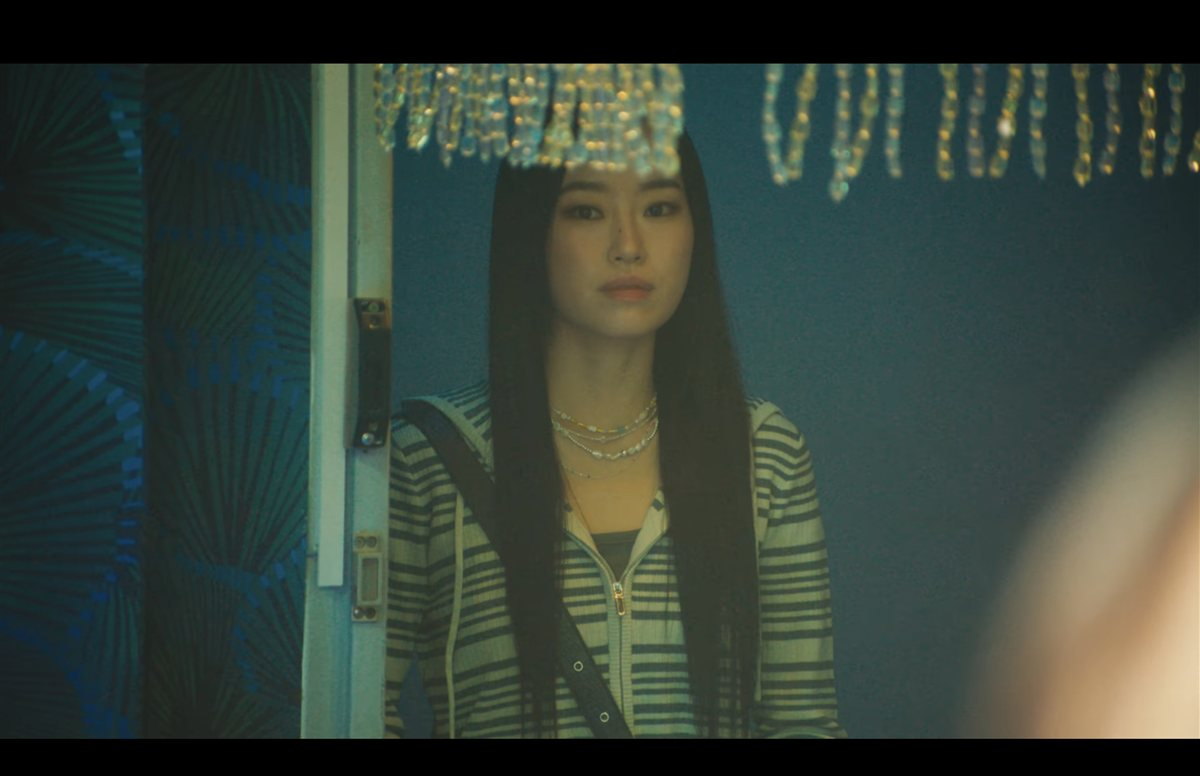
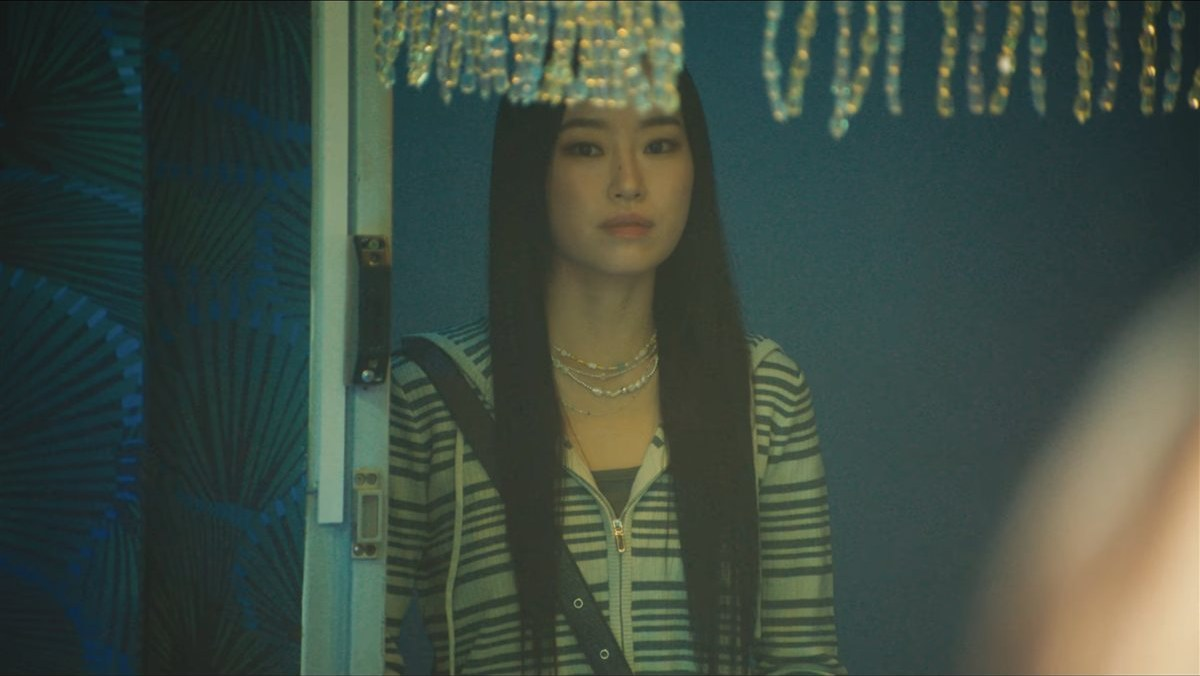
Add link preview cards (per-character OG pages), native phone share with image, crop letterbox bars

diff --git a/index.html b/index.html
@@ -4,6 +4,16 @@
 <meta charset="utf-8">
 <meta name="viewport" content="width=device-width, initial-scale=1">
 <title>슬라이드 스트럼 뮤트 캐릭터 타입테스트</title>
+<meta name="description" content="당신과 가장 닮은 등장인물은 누구일까요? 슬라이드 스트럼 뮤트 캐릭터 타입테스트">
+<meta property="og:type" content="website">
+<meta property="og:title" content="슬라이드 스트럼 뮤트 캐릭터 타입테스트">
+<meta property="og:description" content="당신과 가장 닮은 등장인물은 누구일까요?">
+<meta property="og:image" content="https://ssm-personality.pages.dev/img/share/default.jpg">
+<meta property="og:url" content="https://ssm-personality.pages.dev/">
+<meta name="twitter:card" content="summary_large_image">
+<meta name="twitter:title" content="슬라이드 스트럼 뮤트 캐릭터 타입테스트">
+<meta name="twitter:description" content="당신과 가장 닮은 등장인물은 누구일까요?">
+<meta name="twitter:image" content="https://ssm-personality.pages.dev/img/share/default.jpg">
 <link rel="preconnect" href="https://fonts.googleapis.com">
 <link rel="stylesheet" href="https://fonts.googleapis.com/css2?family=Archivo+Black&family=Share+Tech+Mono&display=swap">
 <style>
@@ -563,6 +573,7 @@ function renderResult(forced){
   $("rwarn").hidden = !c.warn;
   if (c.warn) $("rwarntext").innerHTML = c.warn;
   show("s-result");
+  renderShareCard().catch(() => {});
 }
 
 /* img/logo.png 가 있으면 텍스트 제목 대신 로고 표시 */
@@ -571,10 +582,10 @@ function renderResult(forced){
 
 $("start").addEventListener("click", startQuiz);
 /* ===== 공유 ===== 문구·해시태그는 여기서 수정 */
-const PAGE_URL = location.origin + location.pathname;
+const PAGE_URL = (location.origin + location.pathname).replace(/index\.html$/, "").replace(/\/?$/, "/");
 const SHARE_TAGS = ["슬라이드스트럼뮤트", "SLIDESTRUMMUTE", "캐릭터타입테스트"];
 function curChar(){ return CHARACTERS[document.body.dataset.char]; }
-function resultUrl(){ return PAGE_URL + "?r=" + (document.body.dataset.char || ""); }   // 그 캐릭터 결과로 바로 열리는 링크
+function resultUrl(){ return PAGE_URL + "r/" + (document.body.dataset.char || "") + "/"; }   // 그 캐릭터 결과로 바로 열리는 링크 (링크 미리보기 카드용 페이지)
 function shareText(){ const c = curChar(); return "나는 〈슬라이드 스트럼 뮤트〉 속 " + (c ? c.name : "누구") + "! 당신은 누구와 닮았나요?"; }
 let toastTimer;
 function toast(msg){ const t = $("toast"); t.textContent = msg; t.hidden = false; clearTimeout(toastTimer); toastTimer = setTimeout(() => t.hidden = true, 2600); }
@@ -604,11 +615,17 @@ $("sh-copy").addEventListener("click", async () => {
   try { await navigator.clipboard.writeText(shareText() + " " + resultUrl()); toast("결과 링크가 복사됐어요"); }
   catch (e){ toast("복사에 실패했어요. 주소창의 링크를 복사해 주세요"); }
 });
-$("sh-x").addEventListener("click", () => {
+$("sh-x").addEventListener("click", () => withBusy($("sh-x"), "이미지 준비 중…", async () => {
+  const blob = await renderShareBlob();
+  const file = blob && new File([blob], "slide-strum-mute-result.jpg", { type: "image/jpeg" });
+  if (file && navigator.canShare && navigator.canShare({ files: [file] })){
+    await navigator.share({ files: [file], text: shareText() + " " + resultUrl() + " " + SHARE_TAGS.map(t => "#" + t).join(" ") });
+    return;   // 폰: 공유창에서 X를 고르면 이미지·문구·링크가 한 번에 들어감
+  }
   const u = "https://twitter.com/intent/tweet?text=" + encodeURIComponent(shareText()) + "&url=" + encodeURIComponent(resultUrl()) + "&hashtags=" + encodeURIComponent(SHARE_TAGS.join(","));
   window.open(u, "_blank", "noopener");
-  withBusy($("sh-x"), "이미지 준비 중…", () => showPreview("트윗 작성창이 열렸어요. '사진 저장' 버튼(또는 이미지 길게 누르기)으로 저장해서 트윗에 첨부하면 결과 카드까지 올라갑니다."));
-});
+  await showPreview("트윗 작성창이 열렸어요. '사진 저장' 버튼(또는 이미지 길게 누르기)으로 저장해서 트윗에 첨부하면 결과 카드까지 올라갑니다.");
+}));
 $("sh-insta").addEventListener("click", () => withBusy($("sh-insta"), "이미지 준비 중…", async () => {
   const blob = await renderShareBlob();
   const file = blob && new File([blob], "slide-strum-mute-result.jpg", { type: "image/jpeg" });

diff --git a/r/geumjin/index.html b/r/geumjin/index.html
@@ -1,0 +1,17 @@
+<!doctype html>
+<html lang="ko"><head><meta charset="utf-8">
+<meta name="viewport" content="width=device-width, initial-scale=1">
+<title>나는 〈슬라이드 스트럼 뮤트〉 속 금진!</title>
+<meta name="description" content="당신은 누구와 닮았나요? 슬라이드 스트럼 뮤트 캐릭터 타입테스트">
+<meta property="og:type" content="website">
+<meta property="og:title" content="나는 〈슬라이드 스트럼 뮤트〉 속 금진!">
+<meta property="og:description" content="당신은 누구와 닮았나요? 슬라이드 스트럼 뮤트 캐릭터 타입테스트">
+<meta property="og:image" content="https://ssm-personality.pages.dev/img/share/geumjin.jpg">
+<meta property="og:url" content="https://ssm-personality.pages.dev/r/geumjin/">
+<meta name="twitter:card" content="summary_large_image">
+<meta name="twitter:title" content="나는 〈슬라이드 스트럼 뮤트〉 속 금진!">
+<meta name="twitter:description" content="당신은 누구와 닮았나요? 슬라이드 스트럼 뮤트 캐릭터 타입테스트">
+<meta name="twitter:image" content="https://ssm-personality.pages.dev/img/share/geumjin.jpg">
+<meta http-equiv="refresh" content="0;url=../../?r=geumjin">
+<script>location.replace("../../?r=geumjin")</script>
+</head><body></body></html>

diff --git a/r/woojin/index.html b/r/woojin/index.html
@@ -1,0 +1,17 @@
+<!doctype html>
+<html lang="ko"><head><meta charset="utf-8">
+<meta name="viewport" content="width=device-width, initial-scale=1">
+<title>나는 〈슬라이드 스트럼 뮤트〉 속 우진!</title>
+<meta name="description" content="당신은 누구와 닮았나요? 슬라이드 스트럼 뮤트 캐릭터 타입테스트">
+<meta property="og:type" content="website">
+<meta property="og:title" content="나는 〈슬라이드 스트럼 뮤트〉 속 우진!">
+<meta property="og:description" content="당신은 누구와 닮았나요? 슬라이드 스트럼 뮤트 캐릭터 타입테스트">
+<meta property="og:image" content="https://ssm-personality.pages.dev/img/share/woojin.jpg">
+<meta property="og:url" content="https://ssm-personality.pages.dev/r/woojin/">
+<meta name="twitter:card" content="summary_large_image">
+<meta name="twitter:title" content="나는 〈슬라이드 스트럼 뮤트〉 속 우진!">
+<meta name="twitter:description" content="당신은 누구와 닮았나요? 슬라이드 스트럼 뮤트 캐릭터 타입테스트">
+<meta name="twitter:image" content="https://ssm-personality.pages.dev/img/share/woojin.jpg">
+<meta http-equiv="refresh" content="0;url=../../?r=woojin">
+<script>location.replace("../../?r=woojin")</script>
+</head><body></body></html>

diff --git a/r/namgi/index.html b/r/namgi/index.html
@@ -1,0 +1,17 @@
+<!doctype html>
+<html lang="ko"><head><meta charset="utf-8">
+<meta name="viewport" content="width=device-width, initial-scale=1">
+<title>나는 〈슬라이드 스트럼 뮤트〉 속 남기!</title>
+<meta name="description" content="당신은 누구와 닮았나요? 슬라이드 스트럼 뮤트 캐릭터 타입테스트">
+<meta property="og:type" content="website">
+<meta property="og:title" content="나는 〈슬라이드 스트럼 뮤트〉 속 남기!">
+<meta property="og:description" content="당신은 누구와 닮았나요? 슬라이드 스트럼 뮤트 캐릭터 타입테스트">
+<meta property="og:image" content="https://ssm-personality.pages.dev/img/share/namgi.jpg">
+<meta property="og:url" content="https://ssm-personality.pages.dev/r/namgi/">
+<meta name="twitter:card" content="summary_large_image">
+<meta name="twitter:title" content="나는 〈슬라이드 스트럼 뮤트〉 속 남기!">
+<meta name="twitter:description" content="당신은 누구와 닮았나요? 슬라이드 스트럼 뮤트 캐릭터 타입테스트">
+<meta name="twitter:image" content="https://ssm-personality.pages.dev/img/share/namgi.jpg">
+<meta http-equiv="refresh" content="0;url=../../?r=namgi">
+<script>location.replace("../../?r=namgi")</script>
+</head><body></body></html>

diff --git a/r/sieun/index.html b/r/sieun/index.html
@@ -1,0 +1,17 @@
+<!doctype html>
+<html lang="ko"><head><meta charset="utf-8">
+<meta name="viewport" content="width=device-width, initial-scale=1">
+<title>나는 〈슬라이드 스트럼 뮤트〉 속 시은!</title>
+<meta name="description" content="당신은 누구와 닮았나요? 슬라이드 스트럼 뮤트 캐릭터 타입테스트">
+<meta property="og:type" content="website">
+<meta property="og:title" content="나는 〈슬라이드 스트럼 뮤트〉 속 시은!">
+<meta property="og:description" content="당신은 누구와 닮았나요? 슬라이드 스트럼 뮤트 캐릭터 타입테스트">
+<meta property="og:image" content="https://ssm-personality.pages.dev/img/share/sieun.jpg">
+<meta property="og:url" content="https://ssm-personality.pages.dev/r/sieun/">
+<meta name="twitter:card" content="summary_large_image">
+<meta name="twitter:title" content="나는 〈슬라이드 스트럼 뮤트〉 속 시은!">
+<meta name="twitter:description" content="당신은 누구와 닮았나요? 슬라이드 스트럼 뮤트 캐릭터 타입테스트">
+<meta name="twitter:image" content="https://ssm-personality.pages.dev/img/share/sieun.jpg">
+<meta http-equiv="refresh" content="0;url=../../?r=sieun">
+<script>location.replace("../../?r=sieun")</script>
+</head><body></body></html>
